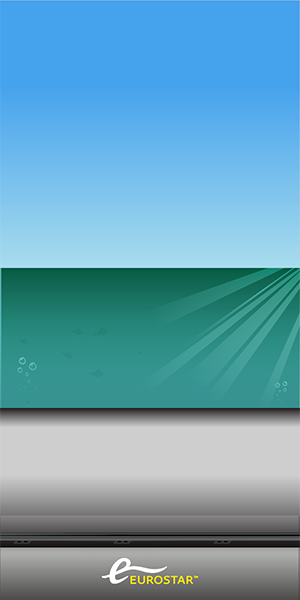
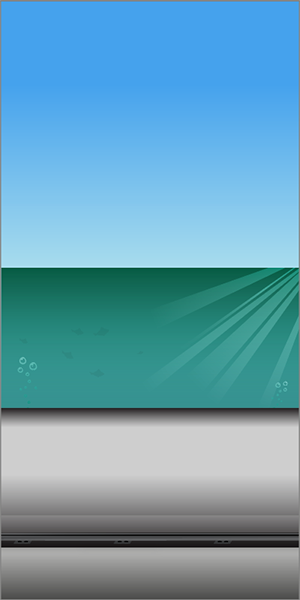
300x600 Amends

Changed region(s): [[0.0, 0.0, 1.0, 1.0], [0.0, 0.72, 0.03, 0.81], [0.0, 0.87, 0.03, 0.9]]

diff --git a/Eurostar/public/US/Ocean/300x600/js/banner.animation.js b/Eurostar/public/US/Ocean/300x600/js/banner.animation.js
@@ -11,7 +11,7 @@ Banner.prototype.start = function () {
   this.bannerHeight = this.banner.offsetHeight;
 
   // Image array for preloading
-  this.images = ['images/logo.png', 'images/blue_bkg.png', 'images/train.png', 'images/scene1_bkg.png', 'images/scene1_clouds.png', 'images/scene1_bus.png', 'images/copy1.png', 'images/scene2_clouds.png', 'images/scene2_bkg.png',
+  this.images = ['images/logo.png', 'images/blue_bkg.png', 'images/train.png', 'images/eurostar.png', 'images/scene1_bkg.png', 'images/scene1_clouds.png', 'images/scene1_bus.png', 'images/copy1.png', 'images/scene2_clouds.png', 'images/scene2_bkg.png',
   //'images/scene2_plane.png',
   'images/scene2_boat.png', 'images/scene2_fish.png', 'images/copy2.png', 'images/scene3_bkg.png', 'images/scene3_clouds.png', 'images/scene3_balloon.png', 'images/scene3_bike.png', 'images/copy3.png', 'images/scene4_bkg.png', 'images/scene4_line1.png', 'images/scene4_line2.png', 'images/copy4.png', 'images/scene5_price.png', 'images/cta.png', 'images/copy5.png'];
 
@@ -39,6 +39,10 @@ Banner.prototype.createElements = function () {
   });
   this.train = this.smartObject({
     backgroundImage: 'images/train.png',
+    parent: this.banner
+  });
+  this.eurostar = this.smartObject({
+    backgroundImage: 'images/eurostar.png',
     parent: this.banner
   });
   this.scene1_bkg = this.smartObject({
@@ -136,9 +140,10 @@ Banner.prototype.createElements = function () {
  */
 Banner.prototype.setup = function () {
   this.logo.center();
-  this.logo.set({ zIndex: 15 });
-  this.blue_bkg.set({ left: -298, top: 0, zIndex: 14 });
+  this.logo.set({ zIndex: 16 });
+  this.blue_bkg.set({ left: -298, top: 0, zIndex: 15 });
   this.train.set({ top: 412, left: -14000, zIndex: 14 });
+  this.eurostar.set({ top: 550, left: 75, zIndex: 14 });
 
   //SCENE 1 LONDON 
   this.scene1_bkg.set({ zIndex: 12 });
